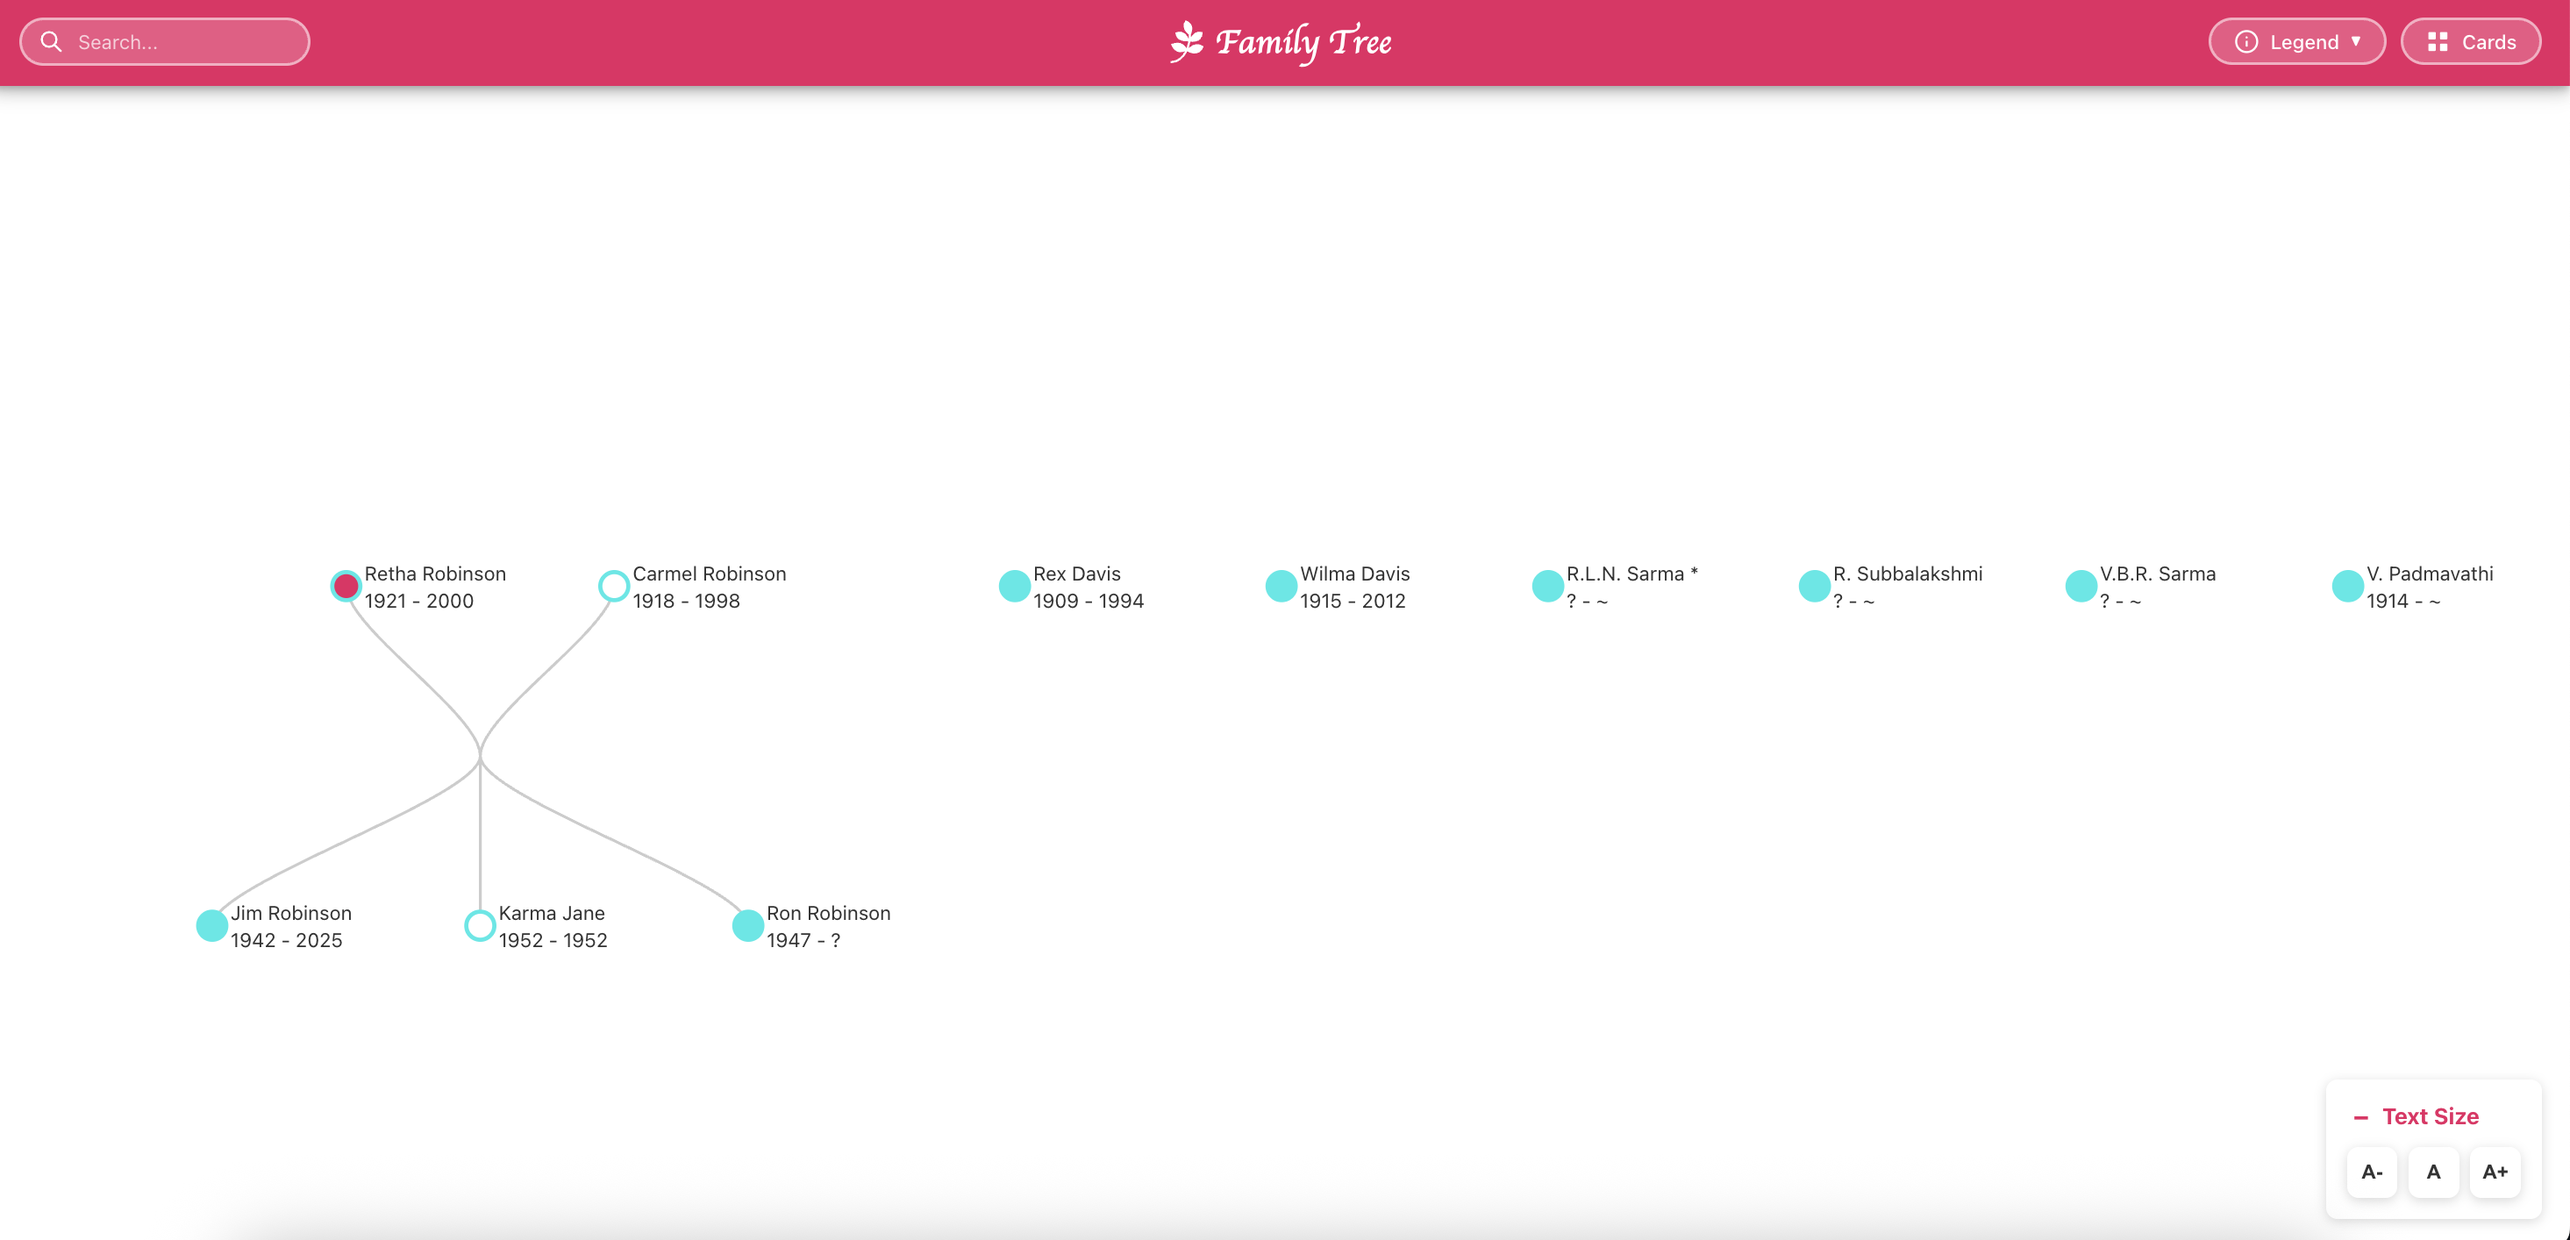
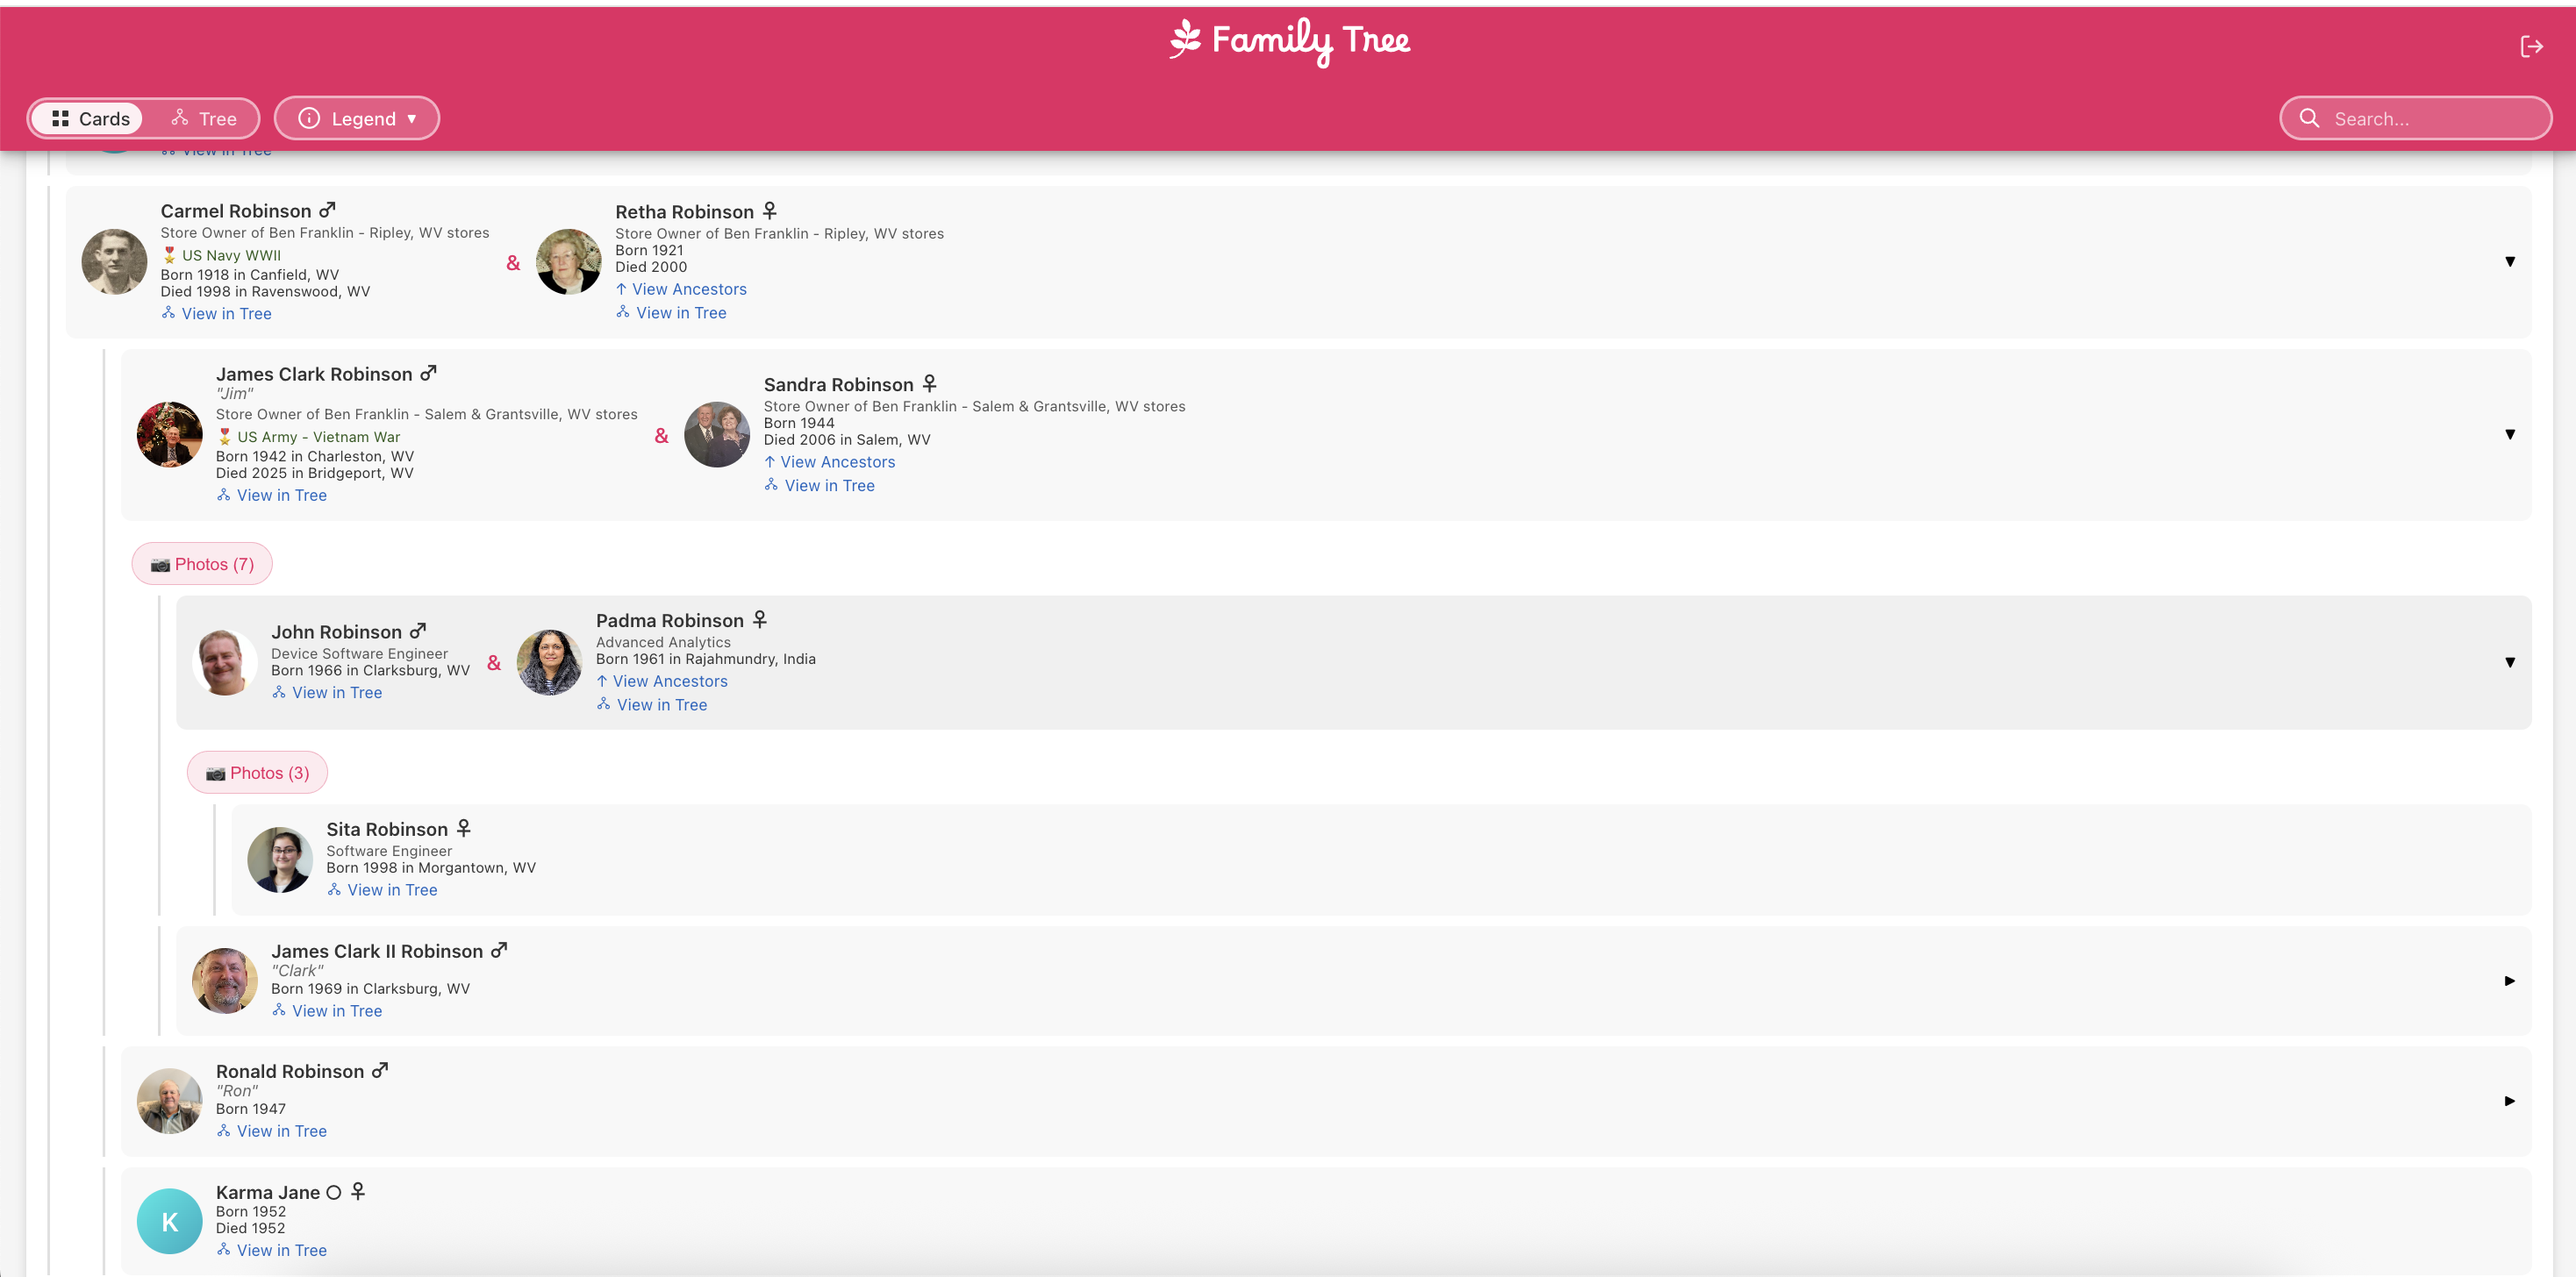
updates

diff --git a/src/utils/projects-content-utils.js b/src/utils/projects-content-utils.js
@@ -2,6 +2,7 @@
 
 import React from "react";
 import { groupArrayBySize } from "./array-utils";
+import BayBenedictProj from "../project-images/BayBenedictProj.jpg";
 import SnailandProj from "../project-images/SnailandProj.jpg";
 import FamilyTreeProj from "../project-images/FamilyTreeProj.jpg";
 import FinProj from "../project-images/FinProj.jpg";
@@ -10,14 +11,39 @@ import ZestyProj from "../project-images/ZestyProj.jpg";
 
 export const projectsContent = [
   {
+    title: "Bay Benedict Restaurant",
+    image: BayBenedictProj,
+    description: (
+      <div>
+        A frontend-focused demo of a Chesapeake-themed brunch restaurant
+        experience, showcasing personalized menu recommendations and a full
+        cart-to-checkout ordering flow.
+      </div>
+    ),
+    socialBoxOptions: [
+      {
+        icon: "code",
+        url: "https://github.com/pinkdragon1000/Bay-Benedict-Restaurant",
+        label: "Bay Benedict Restaurant Github code",
+      },
+      {
+        icon: "link",
+        url: "https://bay-benedict-restaurant.vercel.app/",
+        label: "Bay Benedict Restaurant link",
+      },
+    ],
+  },
+  {
     title: "Family Tree",
     image: FamilyTreeProj,
     description: (
       <div>
         An interactive family tree visualization built with React and D3.js.
-        Click nodes to expand and collapse branches, hover for detailed tooltips
-        with photos and biographical information. Features adjustable text size,
-        zoom/pan navigation, and auto-centering. Hosted on Firebase.
+        Browse through expandable family cards organized by founding couples,
+        drill into generations, view ancestor lines, and explore family photos,
+        or switch to a zoomable tree view with hover tooltips and biographical
+        details. Search by name to jump to any family member across both views.
+        Hosted on Firebase.
       </div>
     ),
     socialBoxOptions: [
@@ -39,7 +65,7 @@ export const projectsContent = [
     description: (
       <div>
         Snailand is a snail-themed endless runner built with React, featuring
-        character selection, a canvas‑based game loop with obstacles and star
+        character selection, a canvas-based game loop with obstacles and star
         pickups, plus sound effects.
       </div>
     ),
